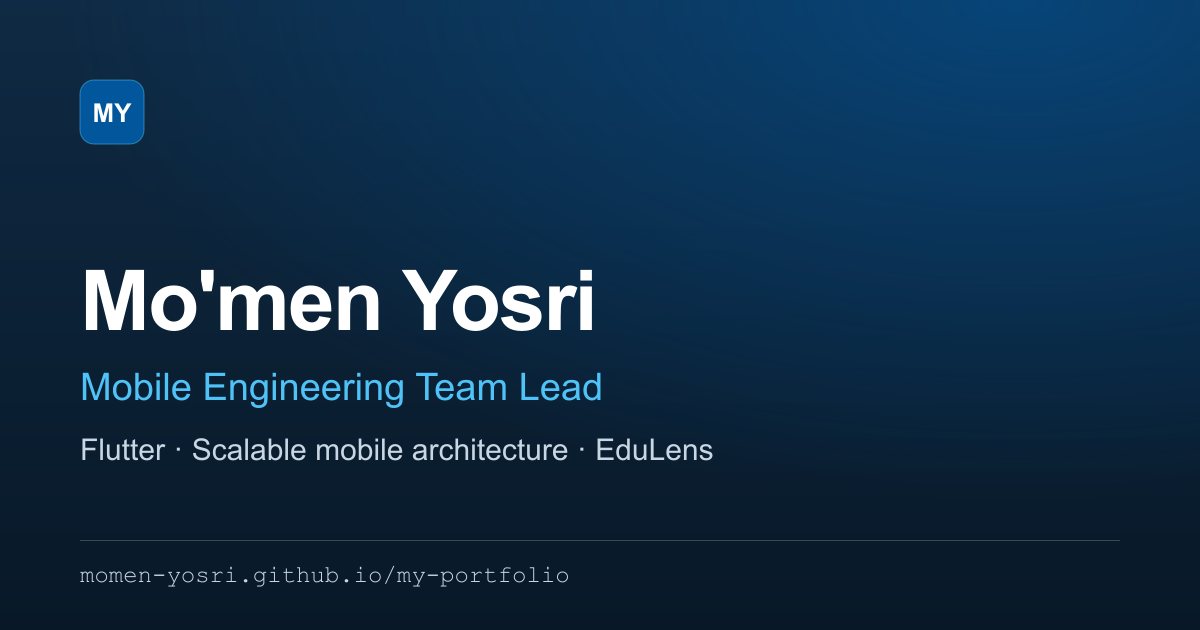
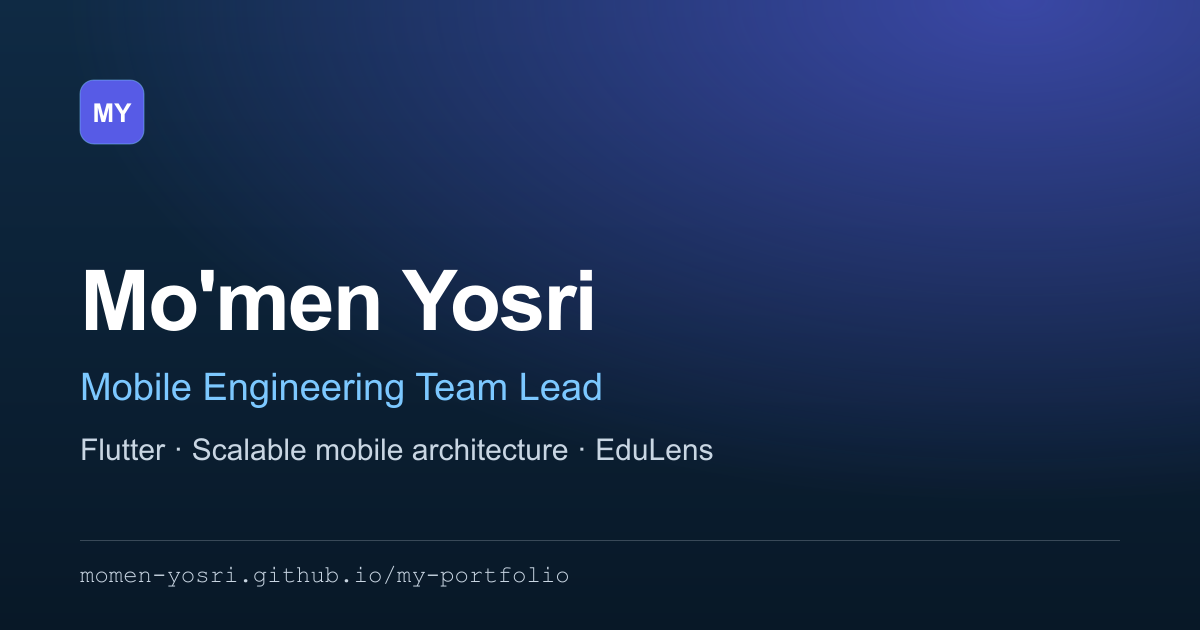
feat: initialize portfolio project with components, layouts, and static assets

Changed region(s): [[0.4317, 0.0, 1.0, 0.4222], [0.0617, 0.573, 0.5242, 0.6635], [0.0617, 0.1206, 0.1233, 0.2413]]

diff --git a/src/styles/global.css b/src/styles/global.css
@@ -1,17 +1,17 @@
 :root {
-  --bg: #0b1012;
-  --bg-dark: #070a0c;
-  --surface: #12191c;
-  --surface-2: #182125;
-  --accent: #2ee6a8;
-  --accent-2: #4ff0bb;
-  --accent-3: #ffc561;
+  --bg: #0b1022;
+  --bg-dark: #070b18;
+  --surface: #121a32;
+  --surface-2: #182342;
+  --accent: #575be6;
+  --accent-2: #7cc8ff;
+  --accent-3: #a5b4fc;
   --gradient: linear-gradient(100deg, var(--accent-2), var(--accent-3));
   --text: #ffffff;
-  --text-2: #c5d0cd;
-  --text-3: #8a9c97;
-  --border: rgba(197, 208, 205, 0.14);
-  --border-strong: rgba(197, 208, 205, 0.26);
+  --text-2: #c6cfe6;
+  --text-3: #8c98b8;
+  --border: rgba(198, 207, 230, 0.14);
+  --border-strong: rgba(198, 207, 230, 0.26);
 
   --font-sans: 'Inter Variable', system-ui, -apple-system, 'Segoe UI', Roboto, sans-serif;
   --font-mono: 'JetBrains Mono Variable', ui-monospace, SFMono-Regular, Menlo, Consolas, monospace;
@@ -52,9 +52,9 @@ body {
   line-height: 1.65;
   color: var(--text-2);
   background:
-    radial-gradient(900px 520px at 85% -8%, rgba(46, 230, 168, 0.13), transparent 70%),
-    radial-gradient(760px 480px at -5% 38%, rgba(255, 197, 97, 0.07), transparent 70%),
-    radial-gradient(700px 460px at 100% 82%, rgba(46, 230, 168, 0.07), transparent 70%),
+    radial-gradient(900px 520px at 85% -8%, rgba(110, 130, 255, 0.13), transparent 70%),
+    radial-gradient(760px 480px at -5% 38%, rgba(124, 200, 255, 0.07), transparent 70%),
+    radial-gradient(700px 460px at 100% 82%, rgba(110, 130, 255, 0.07), transparent 70%),
     linear-gradient(180deg, var(--bg) 0%, var(--bg-dark) 100%);
   background-attachment: fixed;
   overflow-x: hidden;
@@ -97,7 +97,7 @@ ul {
   border-radius: 4px;
 }
 ::selection {
-  background: rgba(46, 230, 168, 0.3);
+  background: rgba(110, 130, 255, 0.3);
 }
 
 .container {
@@ -115,7 +115,7 @@ ul {
   position: absolute;
   inset: 0 0 auto;
   height: 1px;
-  background: linear-gradient(90deg, transparent, rgba(46, 230, 168, 0.35), rgba(255, 197, 97, 0.35), transparent);
+  background: linear-gradient(90deg, transparent, rgba(110, 130, 255, 0.35), rgba(124, 200, 255, 0.35), transparent);
 }
 .mono {
   font-family: var(--font-mono);
@@ -133,7 +133,7 @@ ul {
   left: 1rem;
   top: -4rem;
   background: var(--accent);
-  color: #04140e;
+  color: #ffffff;
   padding: 0.6rem 1rem;
   border-radius: var(--radius-sm);
   z-index: 100;
@@ -202,15 +202,15 @@ ul {
 .btn:hover {
   text-decoration: none;
   border-color: var(--accent-2);
-  background: rgba(46, 230, 168, 0.08);
+  background: rgba(110, 130, 255, 0.08);
 }
 .btn-primary {
   position: relative;
   overflow: hidden;
   background: var(--accent);
-  color: #04140e;
+  color: #ffffff;
   border-color: transparent;
-  box-shadow: 0 10px 28px -12px rgba(46, 230, 168, 0.9);
+  box-shadow: 0 10px 28px -12px rgba(110, 130, 255, 0.9);
 }
 .btn-primary::after {
   content: '';
@@ -221,10 +221,10 @@ ul {
   pointer-events: none;
 }
 .btn-primary:hover {
-  background: #5cf5c4;
+  background: #6b6ff2;
   border-color: transparent;
   transform: translateY(-2px);
-  box-shadow: 0 16px 34px -12px rgb(46, 230, 168);
+  box-shadow: 0 16px 34px -12px rgb(110, 130, 255);
 }
 .btn-primary:hover::after {
   transform: translateX(110%);
@@ -249,13 +249,13 @@ ul {
   border: 1px solid var(--border);
   border-radius: 6px;
   color: var(--text-2);
-  background: rgba(7, 10, 12, 0.4);
+  background: rgba(7, 11, 24, 0.4);
 }
 
 /* Cards */
 .card {
   position: relative;
-  background: linear-gradient(180deg, rgba(24, 33, 37, 0.78), rgba(15, 21, 24, 0.78));
+  background: linear-gradient(180deg, rgba(24, 34, 64, 0.78), rgba(14, 21, 42, 0.78));
   border: 1px solid var(--border);
   border-radius: var(--radius);
   transition:
@@ -270,7 +270,7 @@ ul {
   position: absolute;
   inset: 0;
   border-radius: inherit;
-  background: radial-gradient(360px circle at var(--mx, 50%) var(--my, 50%), rgba(46, 230, 168, 0.14), transparent 65%);
+  background: radial-gradient(360px circle at var(--mx, 50%) var(--my, 50%), rgba(110, 130, 255, 0.14), transparent 65%);
   opacity: 0;
   transition: opacity 0.3s;
   pointer-events: none;

diff --git a/src/data/screens.ts b/src/data/screens.ts
@@ -3,6 +3,16 @@ const set = (slug: string, app: string, captions: string[]) =>
   captions.map((c, i) => ({ src: `screens/${slug}/${i + 1}.webp`, alt: `${app}: ${c}` }));
 
 export const screens = {
+  'nasu-university-learning-app': set('nasu-university-learning-app', 'NASU', [
+    'Student dashboard with live lecture access',
+    'Enrolled courses',
+    'Recorded lecture with custom playback controls',
+    'Exam results with answer review',
+    'Assignment grades and instructor feedback',
+    'Course page and enrolment',
+    'Course updates and notifications',
+    'Splash screen',
+  ]),
   'edulens-student-app': set('edulens-student-app', 'EduLens', [
     'Home page with subjects and lecturers',
     'Create account screen',

diff --git a/src/data/projects.ts b/src/data/projects.ts
@@ -94,6 +94,7 @@ export const projects: Project[] = [
   },
   {
     slug: 'nasu-university-learning-app',
+    screenshots: screens['nasu-university-learning-app'],
     logo: 'logos/nasu-university-learning-app.webp',
     name: 'NASU',
     short: 'A university learning management app, from first commit to store launch in about six weeks.',
